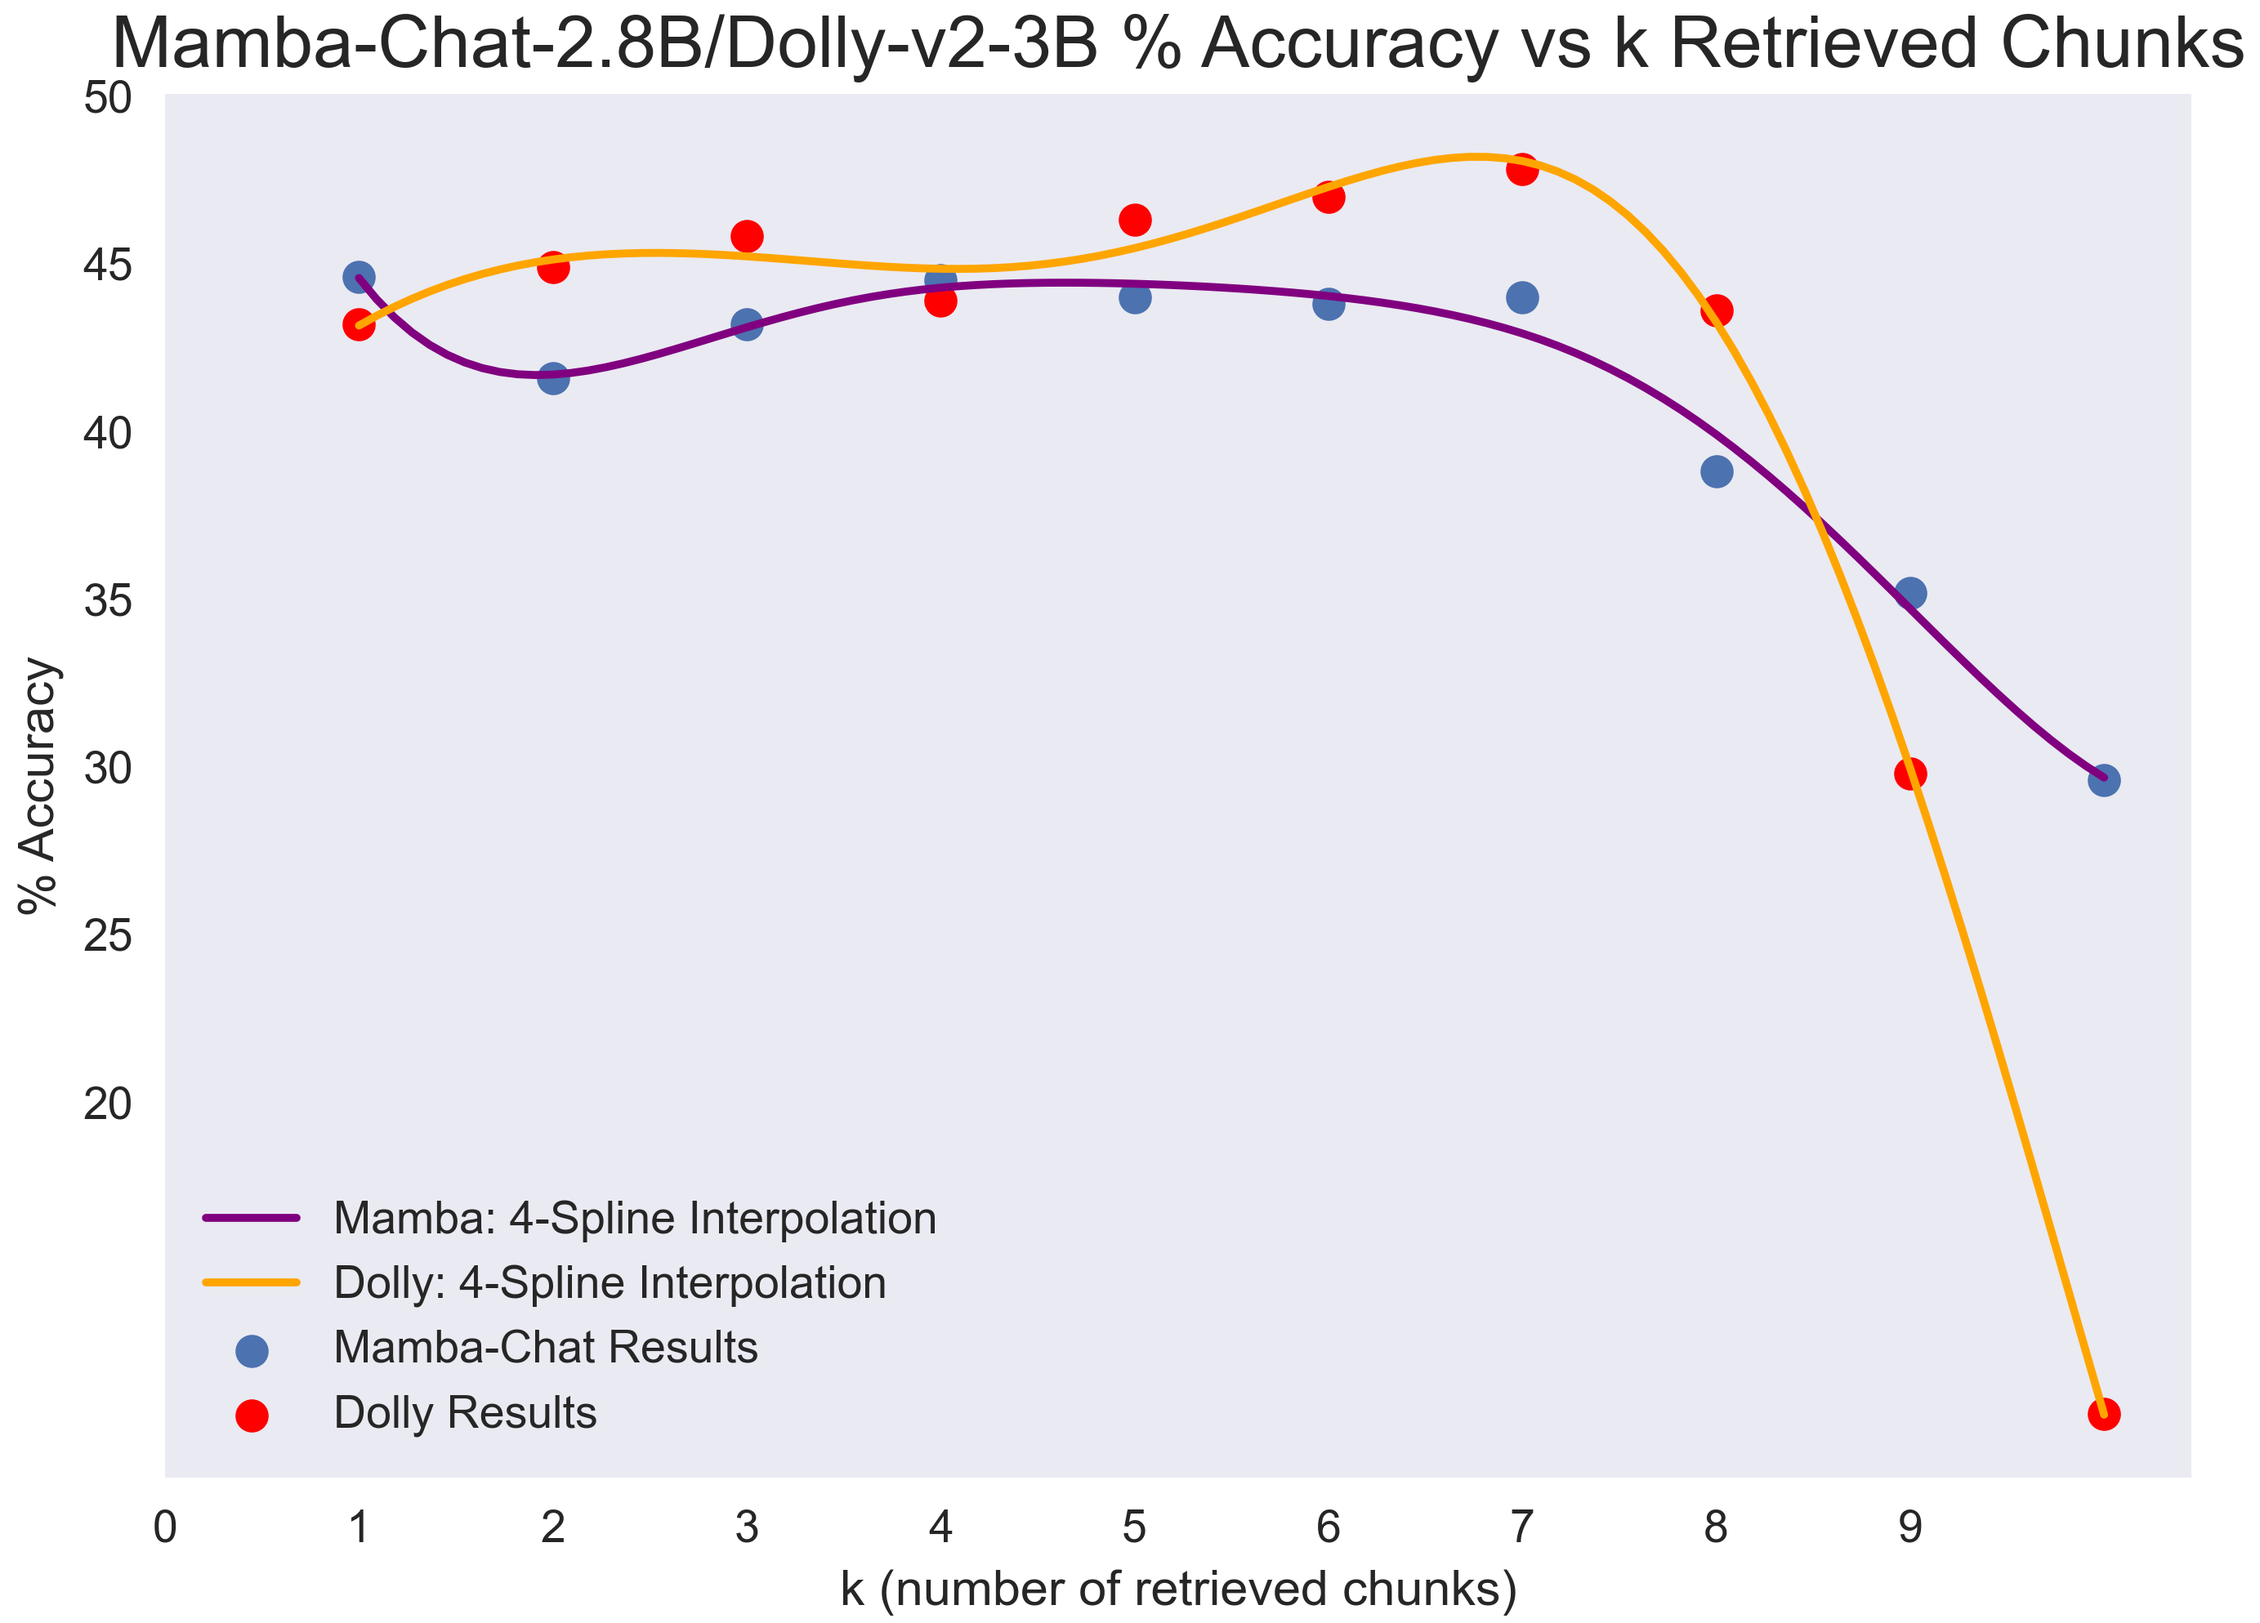
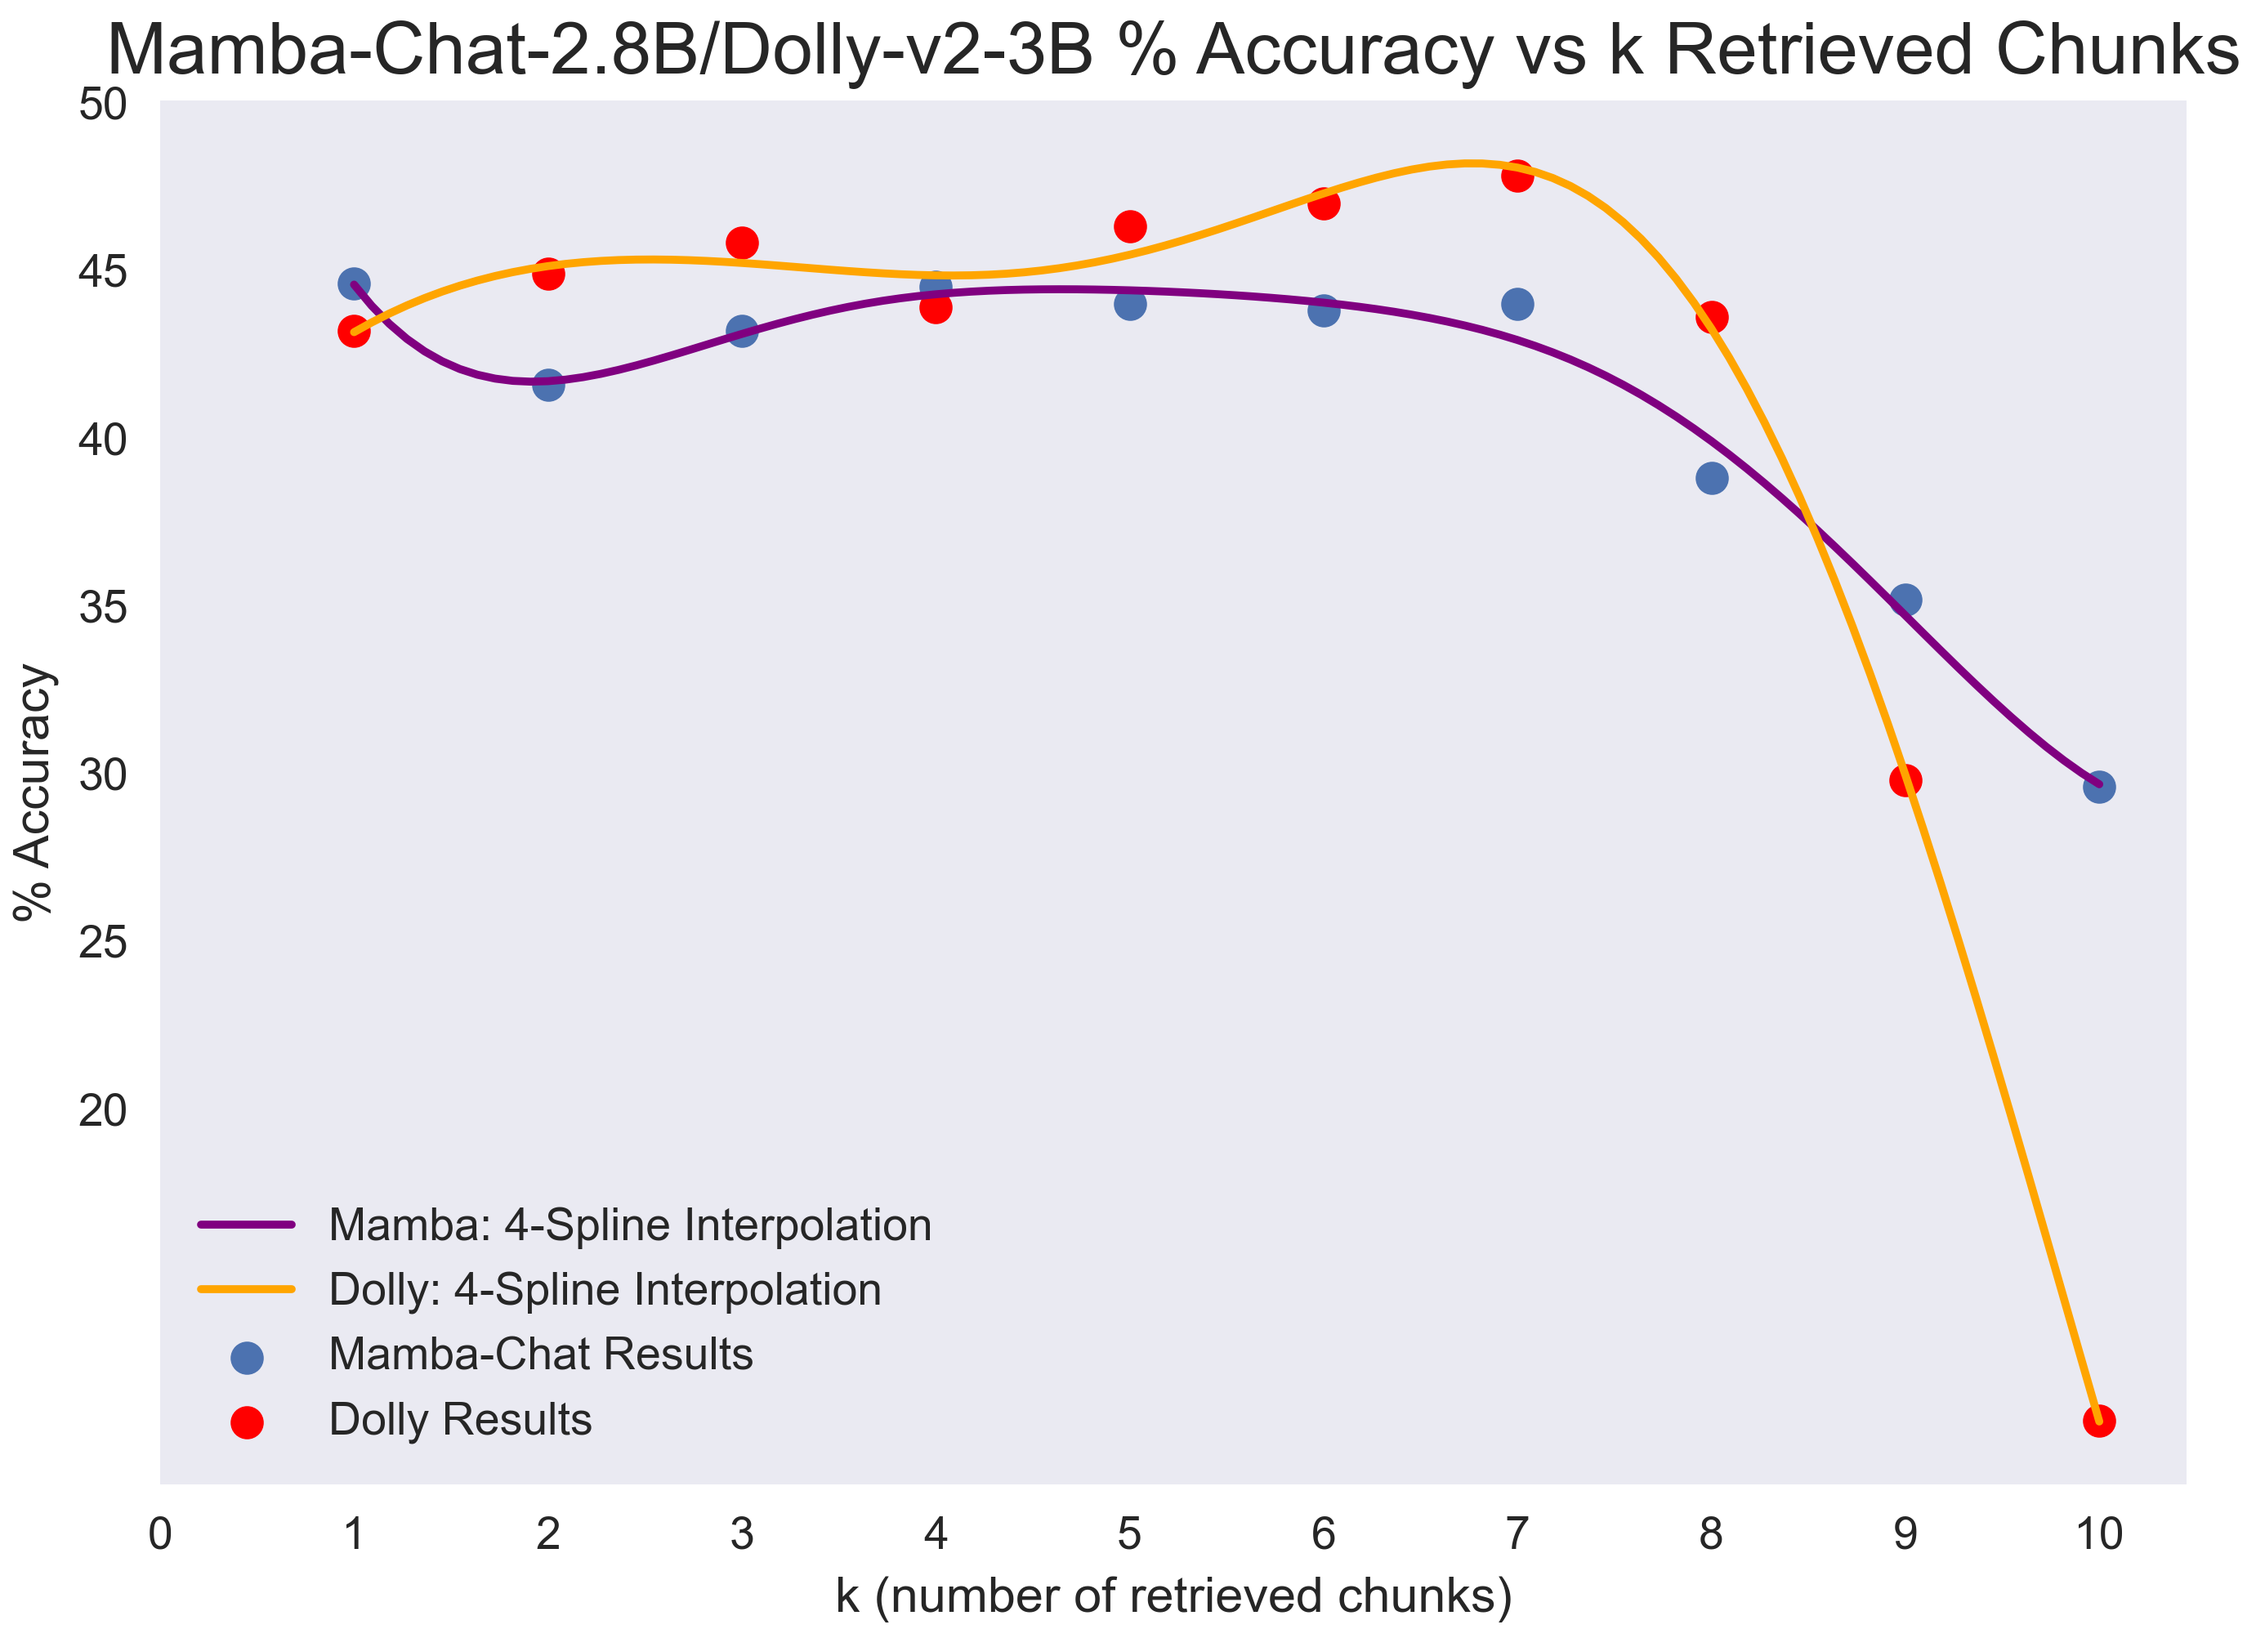
update figs

diff --git a/src/fig_generation/graph_rag_results.py b/src/fig_generation/graph_rag_results.py
@@ -92,7 +92,7 @@ plt.scatter(k, orig_dr, label='Dolly Results', color='red')
 plt.xlabel('k (number of retrieved chunks)')
 plt.ylabel('% Accuracy')
 plt.title('Mamba-Chat-2.8B/Dolly-v2-3B % Accuracy vs k Retrieved Chunks', fontsize=16)
-plt.xticks(np.arange(10))
+plt.xticks(np.arange(11))
 plt.yticks(np.array([20, 25, 30, 35, 40, 45, 50], np.float32))
 plt.legend()
 plt.grid(False)
